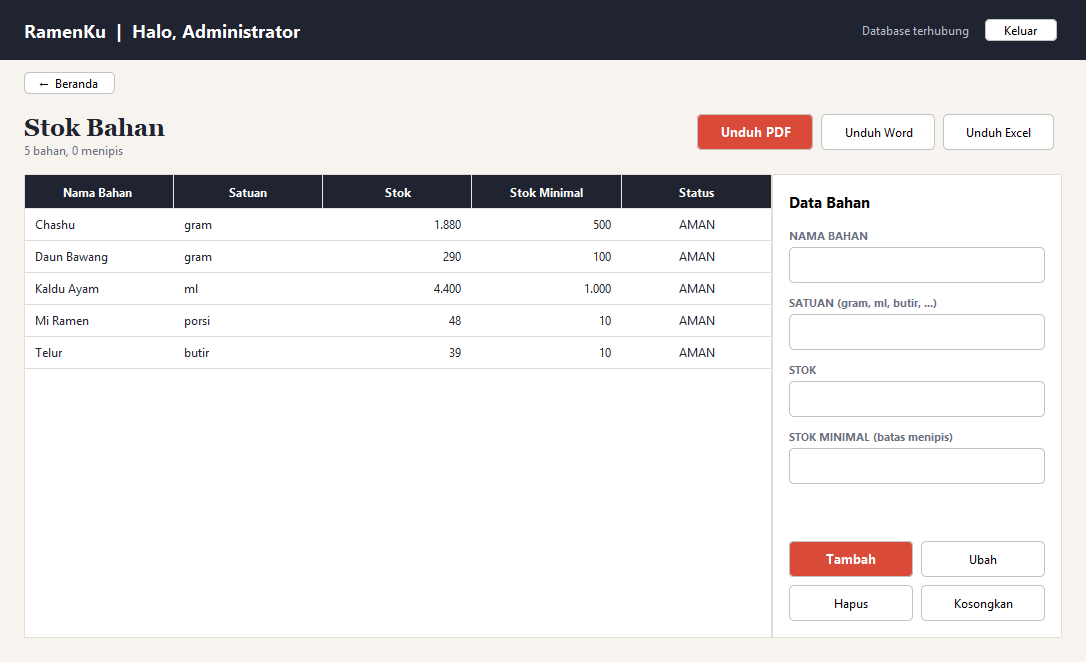
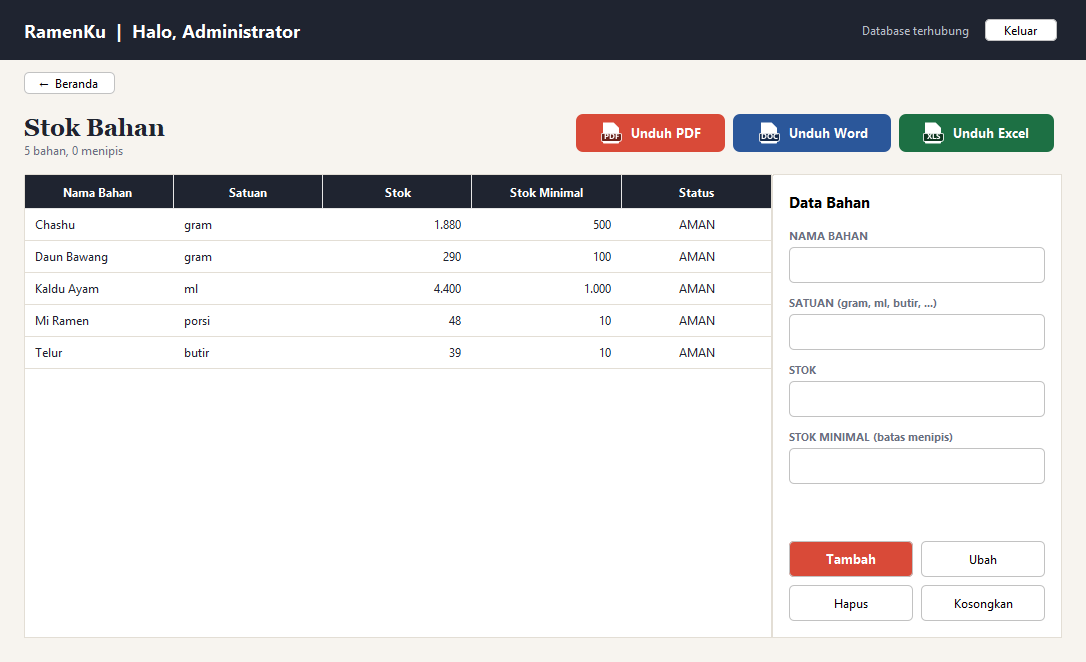
Pertemuan 6: perbarui kode dan gambar dengan tombol unduh berwarna dan berikon
13 November 2026

Changed region(s): [[0.5166, 0.1511, 0.9724, 0.2417]]

diff --git a/pertemuan-6/kode/src/main/java/id/ramenku/ui/Ui.java b/pertemuan-6/kode/src/main/java/id/ramenku/ui/Ui.java
@@ -5,12 +5,17 @@ import java.awt.Color;
 import java.awt.Component;
 import java.awt.Dimension;
 import java.awt.Font;
+import java.awt.Graphics;
+import java.awt.Graphics2D;
 import java.awt.LayoutManager;
+import java.awt.RenderingHints;
+import java.awt.geom.Path2D;
 import java.math.BigDecimal;
 import jakarta.persistence.PersistenceException;
 import java.sql.SQLException;
 import org.hibernate.HibernateException;
 import javax.swing.Box;
+import javax.swing.Icon;
 import javax.swing.BorderFactory;
 import javax.swing.JButton;
 import javax.swing.JComponent;
@@ -93,6 +98,95 @@ public final class Ui {
         b.setFocusPainted(false);
         b.setPreferredSize(new Dimension(b.getPreferredSize().width + 16, 36));
         return b;
+    }
+
+    /**
+     * Tombol unduh berwarna dengan ikon berkas: PDF merah, Word biru, dan Excel hijau.
+     *
+     * @param jenis "PDF", "WORD", atau "EXCEL"
+     */
+    public static JButton tombolUnduh(String teks, String jenis) {
+        Color dasar;
+        Color sorot;
+        Color tekan;
+        String huruf;
+        switch (jenis) {
+            case "WORD" -> { dasar = new Color(0x2B579A); sorot = new Color(0x3A6DB8); tekan = new Color(0x1F4380); huruf = "DOC"; }
+            case "EXCEL" -> { dasar = new Color(0x1D7044); sorot = new Color(0x27905A); tekan = new Color(0x155733); huruf = "XLS"; }
+            default -> { dasar = new Color(0xD94A38); sorot = new Color(0xE5604E); tekan = new Color(0xB93A2A); huruf = "PDF"; }
+        }
+        JButton b = new JButton(teks, new IkonBerkas(huruf, dasar));
+        b.setForeground(Color.WHITE);
+        b.setBackground(dasar);
+        b.setFont(b.getFont().deriveFont(Font.BOLD, 13f));
+        b.setFocusPainted(false);
+        b.setIconTextGap(9);
+        b.putClientProperty("FlatLaf.style", "background: " + hex(dasar) + "; foreground: #FFFFFF; hoverBackground: " + hex(sorot)
+                + "; pressedBackground: " + hex(tekan) + "; borderWidth: 0; arc: 14");
+        b.setPreferredSize(new Dimension(b.getPreferredSize().width + 18, 38));
+        return b;
+    }
+
+    private static String hex(Color c) {
+        return String.format("#%02X%02X%02X", c.getRed(), c.getGreen(), c.getBlue());
+    }
+
+    /** Ikon berkas: kertas putih dengan sudut terlipat dan tulisan jenis berkasnya (PDF, DOC, atau XLS). */
+    private static final class IkonBerkas implements Icon {
+        private final String huruf;
+        private final Color warna;
+
+        IkonBerkas(String huruf, Color warna) {
+            this.huruf = huruf;
+            this.warna = warna;
+        }
+
+        @Override public int getIconWidth() {
+            return 22;
+        }
+
+        @Override public int getIconHeight() {
+            return 24;
+        }
+
+        @Override public void paintIcon(java.awt.Component c, Graphics g, int x, int y) {
+            Graphics2D g2 = (Graphics2D) g.create();
+            g2.setRenderingHint(RenderingHints.KEY_ANTIALIASING, RenderingHints.VALUE_ANTIALIAS_ON);
+            g2.setRenderingHint(RenderingHints.KEY_TEXT_ANTIALIASING, RenderingHints.VALUE_TEXT_ANTIALIAS_ON);
+            g2.translate(x, y);
+            // kertas dengan sudut kanan atas terlipat
+            Path2D kertas = new Path2D.Float();
+            kertas.moveTo(3, 1.5);
+            kertas.lineTo(13.5, 1.5);
+            kertas.lineTo(19, 7);
+            kertas.lineTo(19, 21.5);
+            kertas.quadTo(19, 22.5, 18, 22.5);
+            kertas.lineTo(4, 22.5);
+            kertas.quadTo(3, 22.5, 3, 21.5);
+            kertas.closePath();
+            g2.setColor(Color.WHITE);
+            g2.fill(kertas);
+            // lipatan
+            Path2D lipat = new Path2D.Float();
+            lipat.moveTo(13.5, 1.5);
+            lipat.lineTo(13.5, 5.8);
+            lipat.quadTo(13.5, 7, 14.7, 7);
+            lipat.lineTo(19, 7);
+            lipat.closePath();
+            g2.setColor(new Color(255, 255, 255, 150));
+            g2.fill(lipat);
+            // pita berwarna berisi jenis berkas
+            g2.setColor(warna.darker().darker());
+            g2.fillRoundRect(1, 12, 20, 8, 3, 3);
+            g2.setColor(new Color(255, 255, 255, 210));
+            g2.setStroke(new java.awt.BasicStroke(1f));
+            g2.drawRoundRect(1, 12, 20, 8, 3, 3);
+            g2.setColor(Color.WHITE);
+            g2.setFont(new Font("Segoe UI", Font.BOLD, 8));
+            int lebar = g2.getFontMetrics().stringWidth(huruf);
+            g2.drawString(huruf, 1 + (20 - lebar) / 2f, 18.4f);
+            g2.dispose();
+        }
     }
 
     public static JLabel judul(String teks) {

diff --git a/pertemuan-6/kode/src/main/java/id/ramenku/ui/PanelPenjualan.java b/pertemuan-6/kode/src/main/java/id/ramenku/ui/PanelPenjualan.java
@@ -157,9 +157,9 @@ public class PanelPenjualan extends JPanel implements Halaman {
         belah.setOpaque(false);
         kartu.add(belah, BorderLayout.CENTER);
 
-        JButton strukPdf = Ui.utama("Unduh Struk PDF");
-        JButton strukWord = Ui.biasa("Unduh Struk Word");
-        JButton strukExcel = Ui.biasa("Unduh Struk Excel");
+        JButton strukPdf = Ui.tombolUnduh("Unduh Struk PDF", "PDF");
+        JButton strukWord = Ui.tombolUnduh("Unduh Struk Word", "WORD");
+        JButton strukExcel = Ui.tombolUnduh("Unduh Struk Excel", "EXCEL");
         strukPdf.addActionListener(e -> Ui.coba(this, () -> unduhStruk(Laporan.Format.PDF)));
         strukWord.addActionListener(e -> Ui.coba(this, () -> unduhStruk(Laporan.Format.WORD)));
         strukExcel.addActionListener(e -> Ui.coba(this, () -> unduhStruk(Laporan.Format.EXCEL)));

diff --git a/pertemuan-6/kode/src/main/java/id/ramenku/ui/PanelStokBahan.java b/pertemuan-6/kode/src/main/java/id/ramenku/ui/PanelStokBahan.java
@@ -38,9 +38,9 @@ public class PanelStokBahan extends JPanel implements Halaman {
     private final JTextField txtStok = Ui.isian();
     private final JTextField txtMinimal = Ui.isian();
     private final JLabel ringkas = Ui.anak(" ");
-    private final JButton btnPdf = Ui.utama("Unduh PDF");
-    private final JButton btnWord = Ui.biasa("Unduh Word");
-    private final JButton btnExcel = Ui.biasa("Unduh Excel");
+    private final JButton btnPdf = Ui.tombolUnduh("Unduh PDF", "PDF");
+    private final JButton btnWord = Ui.tombolUnduh("Unduh Word", "WORD");
+    private final JButton btnExcel = Ui.tombolUnduh("Unduh Excel", "EXCEL");
 
     public PanelStokBahan() {
         setLayout(new BorderLayout(0, 16));

diff --git a/pertemuan-6/kode/README.md b/pertemuan-6/kode/README.md
@@ -6,6 +6,7 @@ Versi RamenKu pada Pertemuan 6. Laporan JasperReports kini dapat diunduh dalam *
 - `Laporan.stokBahan(Format)` dan `Laporan.struk(notaId, Format)` membuat laporan stok bahan dan struk penjualan sesuai format yang dipilih.
 - Ekspor memakai eksportir bawaan JasperReports: `JasperExportManager` (PDF), `JRDocxExporter` (Word), dan `JRXlsxExporter` (Excel).
 - Halaman **Stok Bahan** memiliki tombol **Unduh PDF**, **Unduh Word**, dan **Unduh Excel**. Tab **Riwayat Nota** memiliki tombol **Unduh Struk PDF**, **Word**, dan **Excel**.
+- Tombol unduh berwarna sesuai jenis berkas (PDF merah, Word biru, Excel hijau) dengan ikon berkas yang digambar lewat Java2D (`Ui.tombolUnduh`).
 - Desain `stok_bahan.jrxml` diberi pola angka khusus untuk Excel agar angka tampil bersih dan tetap tersimpan sebagai angka.
 - Spring, Hibernate, dan MySQL sama seperti Pertemuan 5. Tes bertambah menjadi 21 (ada tes pembuatan berkas Word dan Excel).
 
